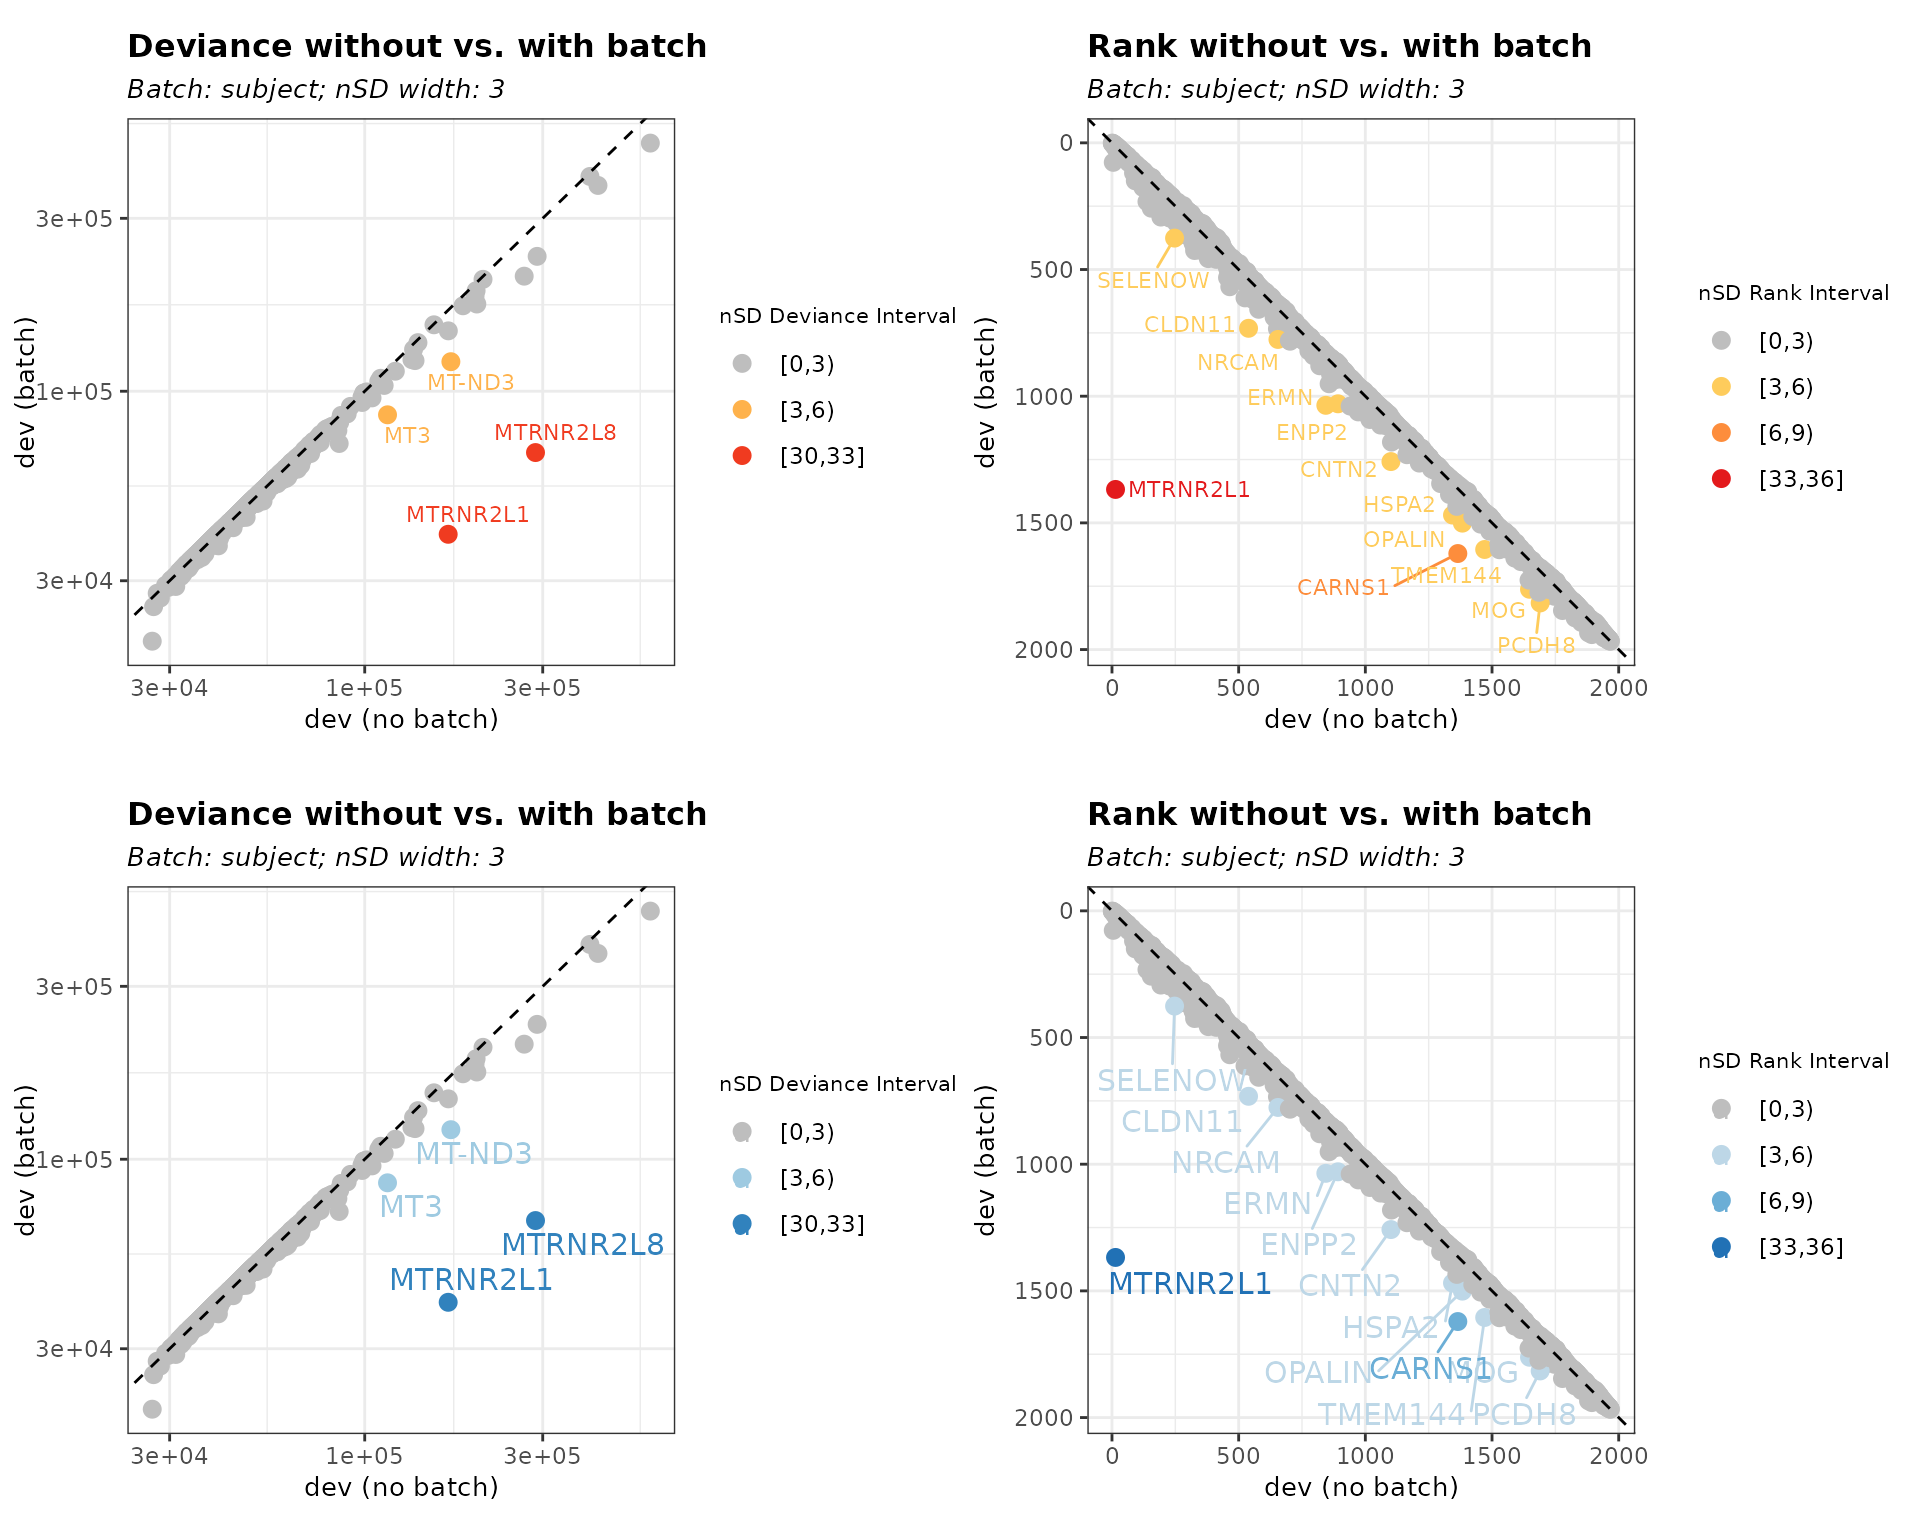
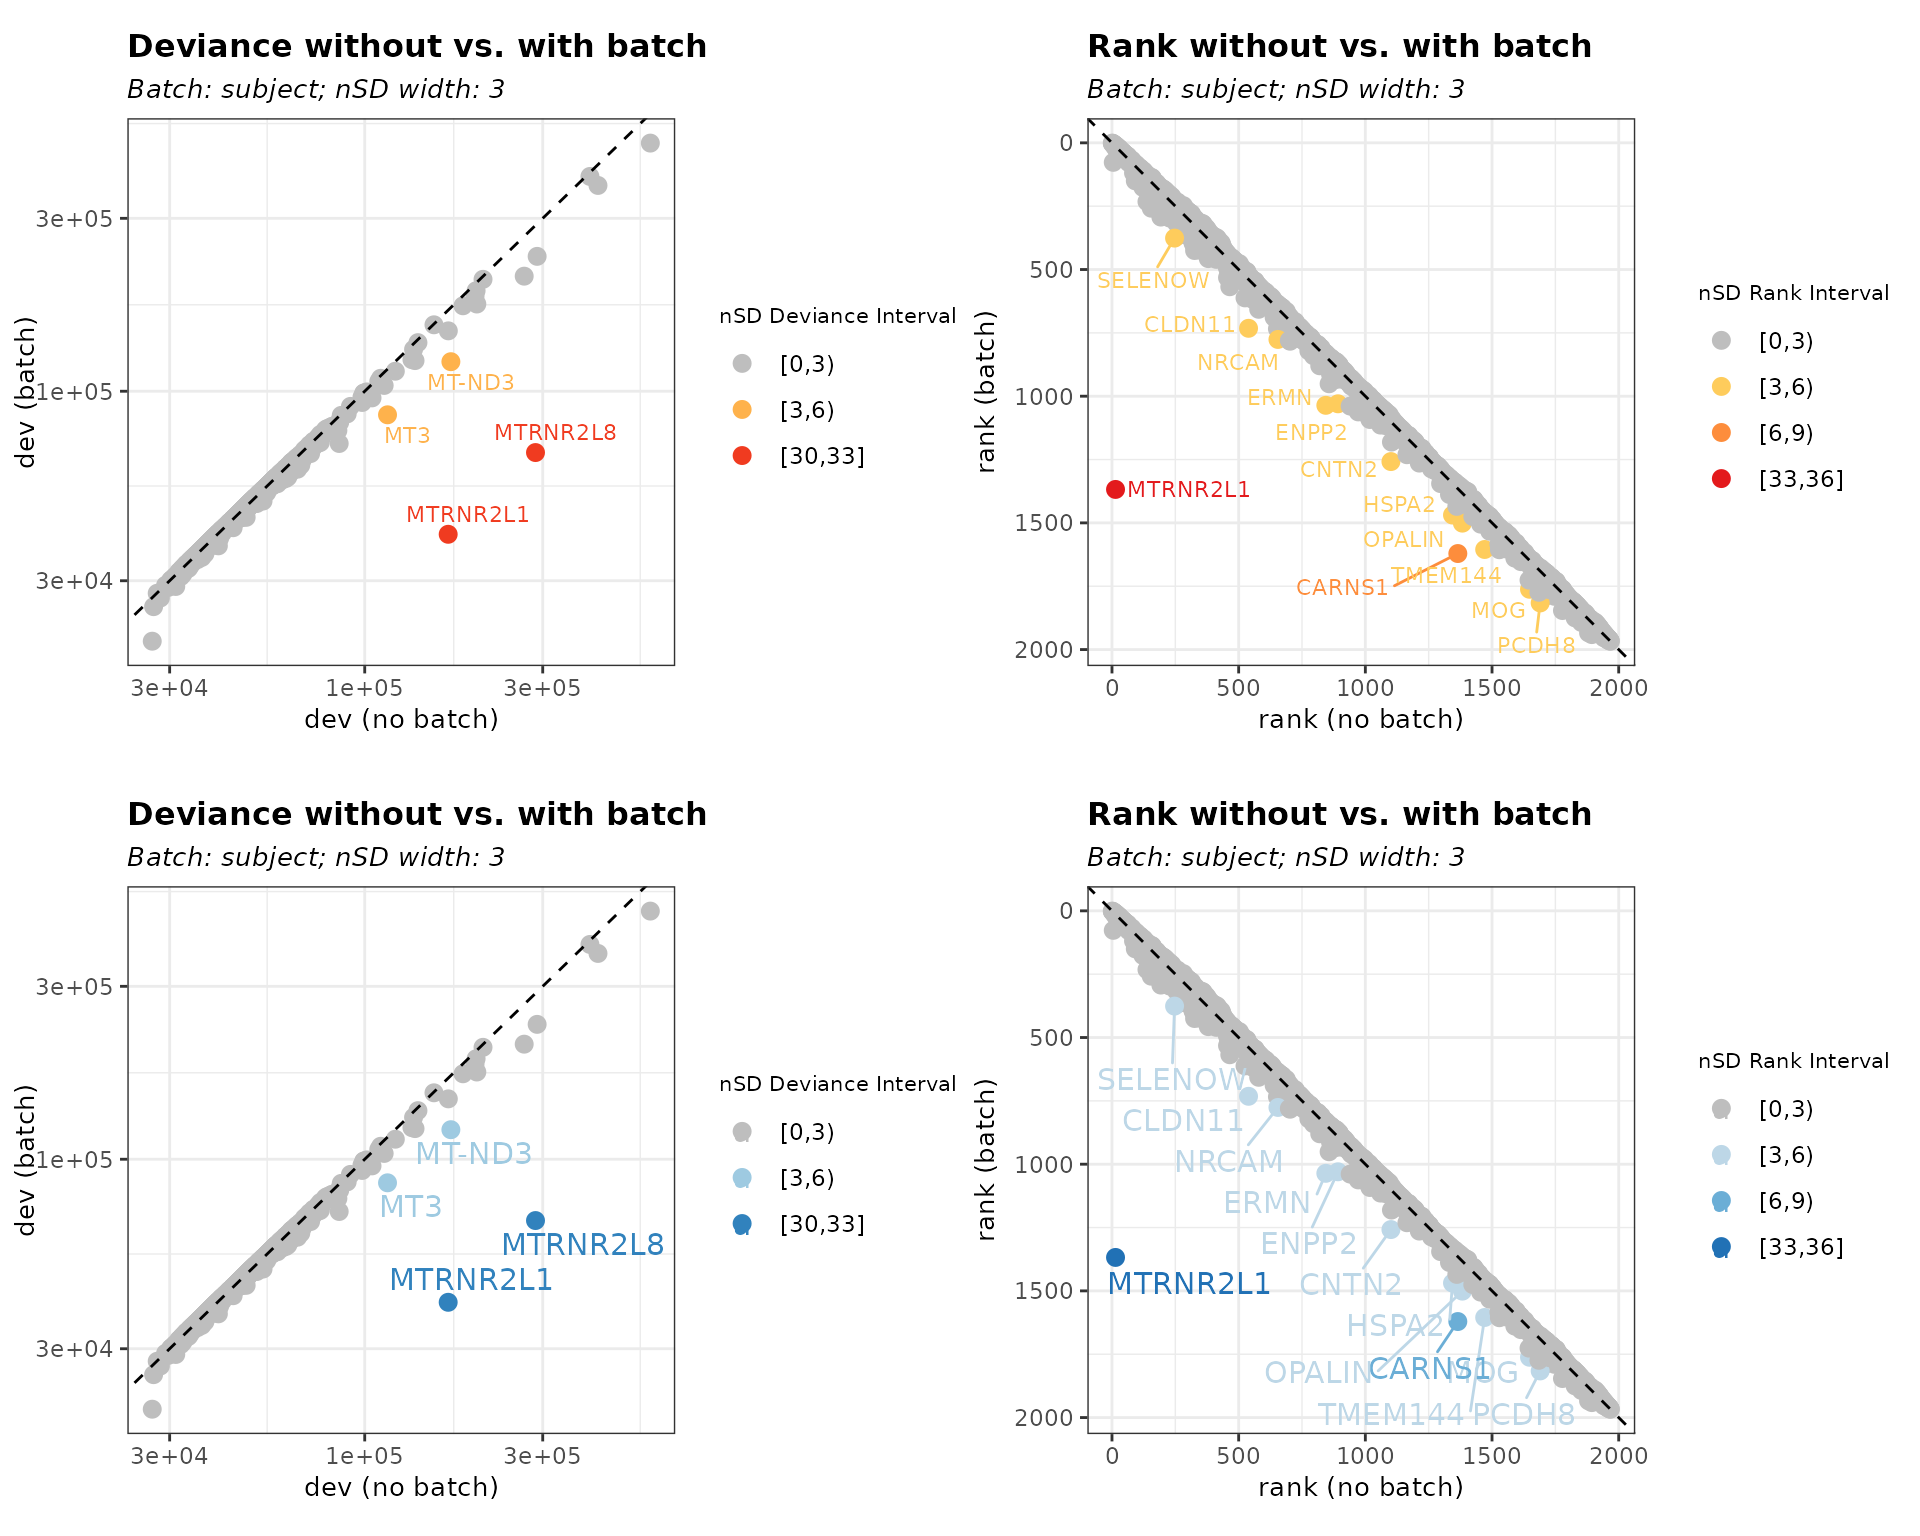
Deploying to gh-pages from @ christinehou11/BatchSVG@f0d7b6147bd057f3922521ecbbd94d9b1a656166 🚀

diff --git a/articles/spe.html b/articles/spe.html
@@ -20,7 +20,7 @@
 
     <a class="navbar-brand me-2" href="../index.html">BatchSVG</a>
 
-    <small class="nav-text text-muted me-auto" data-bs-toggle="tooltip" data-bs-placement="bottom" title="">0.99.7</small>
+    <small class="nav-text text-muted me-auto" data-bs-toggle="tooltip" data-bs-placement="bottom" title="">0.99.8</small>
 
 
     <button class="navbar-toggler" type="button" data-bs-toggle="collapse" data-bs-target="#navbar" aria-controls="navbar" aria-expanded="false" aria-label="Toggle navigation">
@@ -417,21 +417,21 @@ to explore tissue layers and spatial organization.</p>
 <span><span class="co">#&gt;  [7] GenomicRanges_1.58.0        GenomeInfoDb_1.42.3        </span></span>
 <span><span class="co">#&gt;  [9] IRanges_2.40.1              S4Vectors_0.44.0           </span></span>
 <span><span class="co">#&gt; [11] BiocGenerics_0.52.0         MatrixGenerics_1.18.1      </span></span>
-<span><span class="co">#&gt; [13] matrixStats_1.5.0           BatchSVG_0.99.7            </span></span>
+<span><span class="co">#&gt; [13] matrixStats_1.5.0           BatchSVG_0.99.8            </span></span>
 <span><span class="co">#&gt; [15] BiocStyle_2.34.0           </span></span>
 <span><span class="co">#&gt; </span></span>
 <span><span class="co">#&gt; loaded via a namespace (and not attached):</span></span>
-<span><span class="co">#&gt;   [1] RColorBrewer_1.1-3       jsonlite_1.9.1           magrittr_2.0.3          </span></span>
-<span><span class="co">#&gt;   [4] ggbeeswarm_0.7.2         magick_2.8.5             farver_2.1.2            </span></span>
+<span><span class="co">#&gt;   [1] RColorBrewer_1.1-3       jsonlite_2.0.0           magrittr_2.0.3          </span></span>
+<span><span class="co">#&gt;   [4] ggbeeswarm_0.7.2         magick_2.8.6             farver_2.1.2            </span></span>
 <span><span class="co">#&gt;   [7] rmarkdown_2.29           BiocIO_1.16.0            fs_1.6.5                </span></span>
-<span><span class="co">#&gt;  [10] fields_16.3              zlibbioc_1.52.0          ragg_1.3.3              </span></span>
+<span><span class="co">#&gt;  [10] fields_16.3.1            zlibbioc_1.52.0          ragg_1.3.3              </span></span>
 <span><span class="co">#&gt;  [13] vctrs_0.6.5              Rsamtools_2.22.0         config_0.3.2            </span></span>
-<span><span class="co">#&gt;  [16] memoise_2.0.1            RCurl_1.98-1.16          paletteer_1.6.0         </span></span>
+<span><span class="co">#&gt;  [16] memoise_2.0.1            RCurl_1.98-1.17          paletteer_1.6.0         </span></span>
 <span><span class="co">#&gt;  [19] benchmarkme_1.0.8        htmltools_0.5.8.1        S4Arrays_1.6.0          </span></span>
-<span><span class="co">#&gt;  [22] AnnotationHub_3.14.0     curl_6.2.1               BiocNeighbors_2.0.1     </span></span>
+<span><span class="co">#&gt;  [22] AnnotationHub_3.14.0     curl_6.2.2               BiocNeighbors_2.0.1     </span></span>
 <span><span class="co">#&gt;  [25] SparseArray_1.6.2        sass_0.4.9               bslib_0.9.0             </span></span>
 <span><span class="co">#&gt;  [28] htmlwidgets_1.6.4        desc_1.4.3               plotly_4.10.4           </span></span>
-<span><span class="co">#&gt;  [31] cachem_1.1.0             GenomicAlignments_1.42.0 mime_0.12               </span></span>
+<span><span class="co">#&gt;  [31] cachem_1.1.0             GenomicAlignments_1.42.0 mime_0.13               </span></span>
 <span><span class="co">#&gt;  [34] lifecycle_1.0.4          iterators_1.0.14         pkgconfig_2.0.3         </span></span>
 <span><span class="co">#&gt;  [37] rsvd_1.0.5               Matrix_1.7-2             R6_2.6.1                </span></span>
 <span><span class="co">#&gt;  [40] fastmap_1.2.0            GenomeInfoDbData_1.2.13  shiny_1.10.0            </span></span>
@@ -455,9 +455,9 @@ to explore tissue layers and spatial organization.</p>
 <span><span class="co">#&gt;  [94] dplyr_1.1.4              BiocFileCache_2.14.0     lattice_0.22-6          </span></span>
 <span><span class="co">#&gt;  [97] rtracklayer_1.66.0       bit_4.6.0                tidyselect_1.2.1        </span></span>
 <span><span class="co">#&gt; [100] locfit_1.5-9.12          scuttle_1.16.0           Biostrings_2.74.1       </span></span>
-<span><span class="co">#&gt; [103] knitr_1.49               gridExtra_2.3            bookdown_0.42           </span></span>
+<span><span class="co">#&gt; [103] knitr_1.50               gridExtra_2.3            bookdown_0.42           </span></span>
 <span><span class="co">#&gt; [106] edgeR_4.4.2              xfun_0.51                statmod_1.5.0           </span></span>
-<span><span class="co">#&gt; [109] DT_0.33                  stringi_1.8.4            UCSC.utils_1.2.0        </span></span>
+<span><span class="co">#&gt; [109] DT_0.33                  stringi_1.8.7            UCSC.utils_1.2.0        </span></span>
 <span><span class="co">#&gt; [112] lazyeval_0.2.2           yaml_2.3.10              shinyWidgets_0.9.0      </span></span>
 <span><span class="co">#&gt; [115] evaluate_1.0.3           codetools_0.2-20         tibble_3.2.1            </span></span>
 <span><span class="co">#&gt; [118] BiocManager_1.30.25      cli_3.6.4                xtable_1.8-4            </span></span>

diff --git a/reference/featureSelect.html b/reference/featureSelect.html
@@ -13,7 +13,7 @@ effects provided in batch_effects."></head><body>
 
     <a class="navbar-brand me-2" href="../index.html">BatchSVG</a>
 
-    <small class="nav-text text-muted me-auto" data-bs-toggle="tooltip" data-bs-placement="bottom" title="">0.99.7</small>
+    <small class="nav-text text-muted me-auto" data-bs-toggle="tooltip" data-bs-placement="bottom" title="">0.99.8</small>
 
 
     <button class="navbar-toggler" type="button" data-bs-toggle="collapse" data-bs-target="#navbar" aria-controls="navbar" aria-expanded="false" aria-label="Toggle navigation">
@@ -167,7 +167,7 @@ rank difference for the batch.</p></li>
 <span class="r-msg co"><span class="r-pr">#&gt;</span>     anyMissing, rowMedians</span>
 <span class="r-in"><span><span class="va">spatialLIBD_spe</span> <span class="op">&lt;-</span> <span class="fu"><a href="https://rdrr.io/pkg/spatialLIBD/man/fetch_data.html" class="external-link">fetch_data</a></span><span class="op">(</span>type <span class="op">=</span> <span class="st">"spe"</span><span class="op">)</span></span></span>
 <span class="r-msg co"><span class="r-pr">#&gt;</span> adding rname 'https://www.dropbox.com/s/f4wcvtdq428y73p/Human_DLPFC_Visium_processedData_sce_scran_spatialLIBD.Rdata?dl=1'</span>
-<span class="r-msg co"><span class="r-pr">#&gt;</span> 2025-03-08 01:39:45.595988 loading file /home/runner/.cache/R/BiocFileCache/29c6755b2172_Human_DLPFC_Visium_processedData_sce_scran_spatialLIBD.Rdata%3Fdl%3D1</span>
+<span class="r-msg co"><span class="r-pr">#&gt;</span> 2025-03-31 00:32:35.29746 loading file /home/runner/.cache/R/BiocFileCache/38245eec57cd_Human_DLPFC_Visium_processedData_sce_scran_spatialLIBD.Rdata%3Fdl%3D1</span>
 <span class="r-in"><span><span class="va">libd_svg</span> <span class="op">&lt;-</span> <span class="fu"><a href="https://rdrr.io/r/utils/read.table.html" class="external-link">read.csv</a></span><span class="op">(</span></span></span>
 <span class="r-in"><span>    <span class="fu"><a href="https://rdrr.io/r/base/system.file.html" class="external-link">system.file</a></span><span class="op">(</span><span class="st">"extdata"</span>,<span class="st">"libd-all_nnSVG_p-05-features-df.csv"</span>,</span></span>
 <span class="r-in"><span>              package <span class="op">=</span> <span class="st">"BatchSVG"</span><span class="op">)</span>,</span></span>

diff --git a/authors.html b/authors.html
@@ -7,7 +7,7 @@
 
     <a class="navbar-brand me-2" href="index.html">BatchSVG</a>
 
-    <small class="nav-text text-muted me-auto" data-bs-toggle="tooltip" data-bs-placement="bottom" title="">0.99.7</small>
+    <small class="nav-text text-muted me-auto" data-bs-toggle="tooltip" data-bs-placement="bottom" title="">0.99.8</small>
 
 
     <button class="navbar-toggler" type="button" data-bs-toggle="collapse" data-bs-target="#navbar" aria-controls="navbar" aria-expanded="false" aria-label="Toggle navigation">
@@ -58,14 +58,14 @@
 
       <p>Hou C, Thompson J, Hicks S (2025).
 <em>BatchSVG: Identify Batch-Biased Features in Spatially Variable Genes</em>.
-R package version 0.99.7,
+R package version 0.99.8,
 https://christinehou11.github.io/BatchSVG, <a href="https://github.com/christinehou11/BatchSVG" class="external-link">https://github.com/christinehou11/BatchSVG</a>.
 </p>
       <pre>@Manual{,
   title = {BatchSVG: Identify Batch-Biased Features in Spatially Variable Genes},
   author = {Christine Hou and Jacqui Thompson and Stephanie C. Hicks},
   year = {2025},
-  note = {R package version 0.99.7,
+  note = {R package version 0.99.8,
     https://christinehou11.github.io/BatchSVG},
   url = {https://github.com/christinehou11/BatchSVG},
 }</pre>

diff --git a/news/index.html b/news/index.html
@@ -7,7 +7,7 @@
 
     <a class="navbar-brand me-2" href="../index.html">BatchSVG</a>
 
-    <small class="nav-text text-muted me-auto" data-bs-toggle="tooltip" data-bs-placement="bottom" title="">0.99.7</small>
+    <small class="nav-text text-muted me-auto" data-bs-toggle="tooltip" data-bs-placement="bottom" title="">0.99.8</small>
 
 
     <button class="navbar-toggler" type="button" data-bs-toggle="collapse" data-bs-target="#navbar" aria-controls="navbar" aria-expanded="false" aria-label="Toggle navigation">
@@ -36,6 +36,10 @@
       <small>Source: <a href="https://github.com/christinehou11/BatchSVG/blob/main/NEWS.md" class="external-link"><code>NEWS.md</code></a></small>
     </div>
 
+    <div class="section level2">
+<h2 class="pkg-version" data-toc-text="0.99.8" id="batchsvg-0998">BatchSVG 0.99.8<a class="anchor" aria-label="anchor" href="#batchsvg-0998"></a></h2>
+<ul><li>Fixes the rank plot x/y labels</li>
+</ul></div>
     <div class="section level2">
 <h2 class="pkg-version" data-toc-text="0.99.7" id="batchsvg-0997">BatchSVG 0.99.7<a class="anchor" aria-label="anchor" href="#batchsvg-0997"></a></h2>
 <ul><li>Bug fixs</li>

diff --git a/reference/svg_nSD.html b/reference/svg_nSD.html
@@ -15,7 +15,7 @@ plots to illustrate the distribution of batch effects."></head><body>
 
     <a class="navbar-brand me-2" href="../index.html">BatchSVG</a>
 
-    <small class="nav-text text-muted me-auto" data-bs-toggle="tooltip" data-bs-placement="bottom" title="">0.99.7</small>
+    <small class="nav-text text-muted me-auto" data-bs-toggle="tooltip" data-bs-placement="bottom" title="">0.99.8</small>
 
 
     <button class="navbar-toggler" type="button" data-bs-toggle="collapse" data-bs-target="#navbar" aria-controls="navbar" aria-expanded="false" aria-label="Toggle navigation">

diff --git a/404.html b/404.html
@@ -20,7 +20,7 @@
 
     <a class="navbar-brand me-2" href="https://christinehou11.github.io/BatchSVG/index.html">BatchSVG</a>
 
-    <small class="nav-text text-muted me-auto" data-bs-toggle="tooltip" data-bs-placement="bottom" title="">0.99.7</small>
+    <small class="nav-text text-muted me-auto" data-bs-toggle="tooltip" data-bs-placement="bottom" title="">0.99.8</small>
 
 
     <button class="navbar-toggler" type="button" data-bs-toggle="collapse" data-bs-target="#navbar" aria-controls="navbar" aria-expanded="false" aria-label="Toggle navigation">

diff --git a/reference/biasDetect.html b/reference/biasDetect.html
@@ -11,7 +11,7 @@ and rank difference."></head><body>
 
     <a class="navbar-brand me-2" href="../index.html">BatchSVG</a>
 
-    <small class="nav-text text-muted me-auto" data-bs-toggle="tooltip" data-bs-placement="bottom" title="">0.99.7</small>
+    <small class="nav-text text-muted me-auto" data-bs-toggle="tooltip" data-bs-placement="bottom" title="">0.99.8</small>
 
 
     <button class="navbar-toggler" type="button" data-bs-toggle="collapse" data-bs-target="#navbar" aria-controls="navbar" aria-expanded="false" aria-label="Toggle navigation">

diff --git a/articles/index.html b/articles/index.html
@@ -7,7 +7,7 @@
 
     <a class="navbar-brand me-2" href="../index.html">BatchSVG</a>
 
-    <small class="nav-text text-muted me-auto" data-bs-toggle="tooltip" data-bs-placement="bottom" title="">0.99.7</small>
+    <small class="nav-text text-muted me-auto" data-bs-toggle="tooltip" data-bs-placement="bottom" title="">0.99.8</small>
 
 
     <button class="navbar-toggler" type="button" data-bs-toggle="collapse" data-bs-target="#navbar" aria-controls="navbar" aria-expanded="false" aria-label="Toggle navigation">

diff --git a/reference/index.html b/reference/index.html
@@ -7,7 +7,7 @@
 
     <a class="navbar-brand me-2" href="../index.html">BatchSVG</a>
 
-    <small class="nav-text text-muted me-auto" data-bs-toggle="tooltip" data-bs-placement="bottom" title="">0.99.7</small>
+    <small class="nav-text text-muted me-auto" data-bs-toggle="tooltip" data-bs-placement="bottom" title="">0.99.8</small>
 
 
     <button class="navbar-toggler" type="button" data-bs-toggle="collapse" data-bs-target="#navbar" aria-controls="navbar" aria-expanded="false" aria-label="Toggle navigation">

diff --git a/index.html b/index.html
@@ -22,7 +22,7 @@
 
     <a class="navbar-brand me-2" href="index.html">BatchSVG</a>
 
-    <small class="nav-text text-muted me-auto" data-bs-toggle="tooltip" data-bs-placement="bottom" title="">0.99.7</small>
+    <small class="nav-text text-muted me-auto" data-bs-toggle="tooltip" data-bs-placement="bottom" title="">0.99.8</small>
 
 
     <button class="navbar-toggler" type="button" data-bs-toggle="collapse" data-bs-target="#navbar" aria-controls="navbar" aria-expanded="false" aria-label="Toggle navigation">

diff --git a/CODE_OF_CONDUCT.html b/CODE_OF_CONDUCT.html
@@ -7,7 +7,7 @@
 
     <a class="navbar-brand me-2" href="index.html">BatchSVG</a>
 
-    <small class="nav-text text-muted me-auto" data-bs-toggle="tooltip" data-bs-placement="bottom" title="">0.99.7</small>
+    <small class="nav-text text-muted me-auto" data-bs-toggle="tooltip" data-bs-placement="bottom" title="">0.99.8</small>
 
 
     <button class="navbar-toggler" type="button" data-bs-toggle="collapse" data-bs-target="#navbar" aria-controls="navbar" aria-expanded="false" aria-label="Toggle navigation">

diff --git a/CONTRIBUTING.html b/CONTRIBUTING.html
@@ -7,7 +7,7 @@
 
     <a class="navbar-brand me-2" href="index.html">BatchSVG</a>
 
-    <small class="nav-text text-muted me-auto" data-bs-toggle="tooltip" data-bs-placement="bottom" title="">0.99.7</small>
+    <small class="nav-text text-muted me-auto" data-bs-toggle="tooltip" data-bs-placement="bottom" title="">0.99.8</small>
 
 
     <button class="navbar-toggler" type="button" data-bs-toggle="collapse" data-bs-target="#navbar" aria-controls="navbar" aria-expanded="false" aria-label="Toggle navigation">
